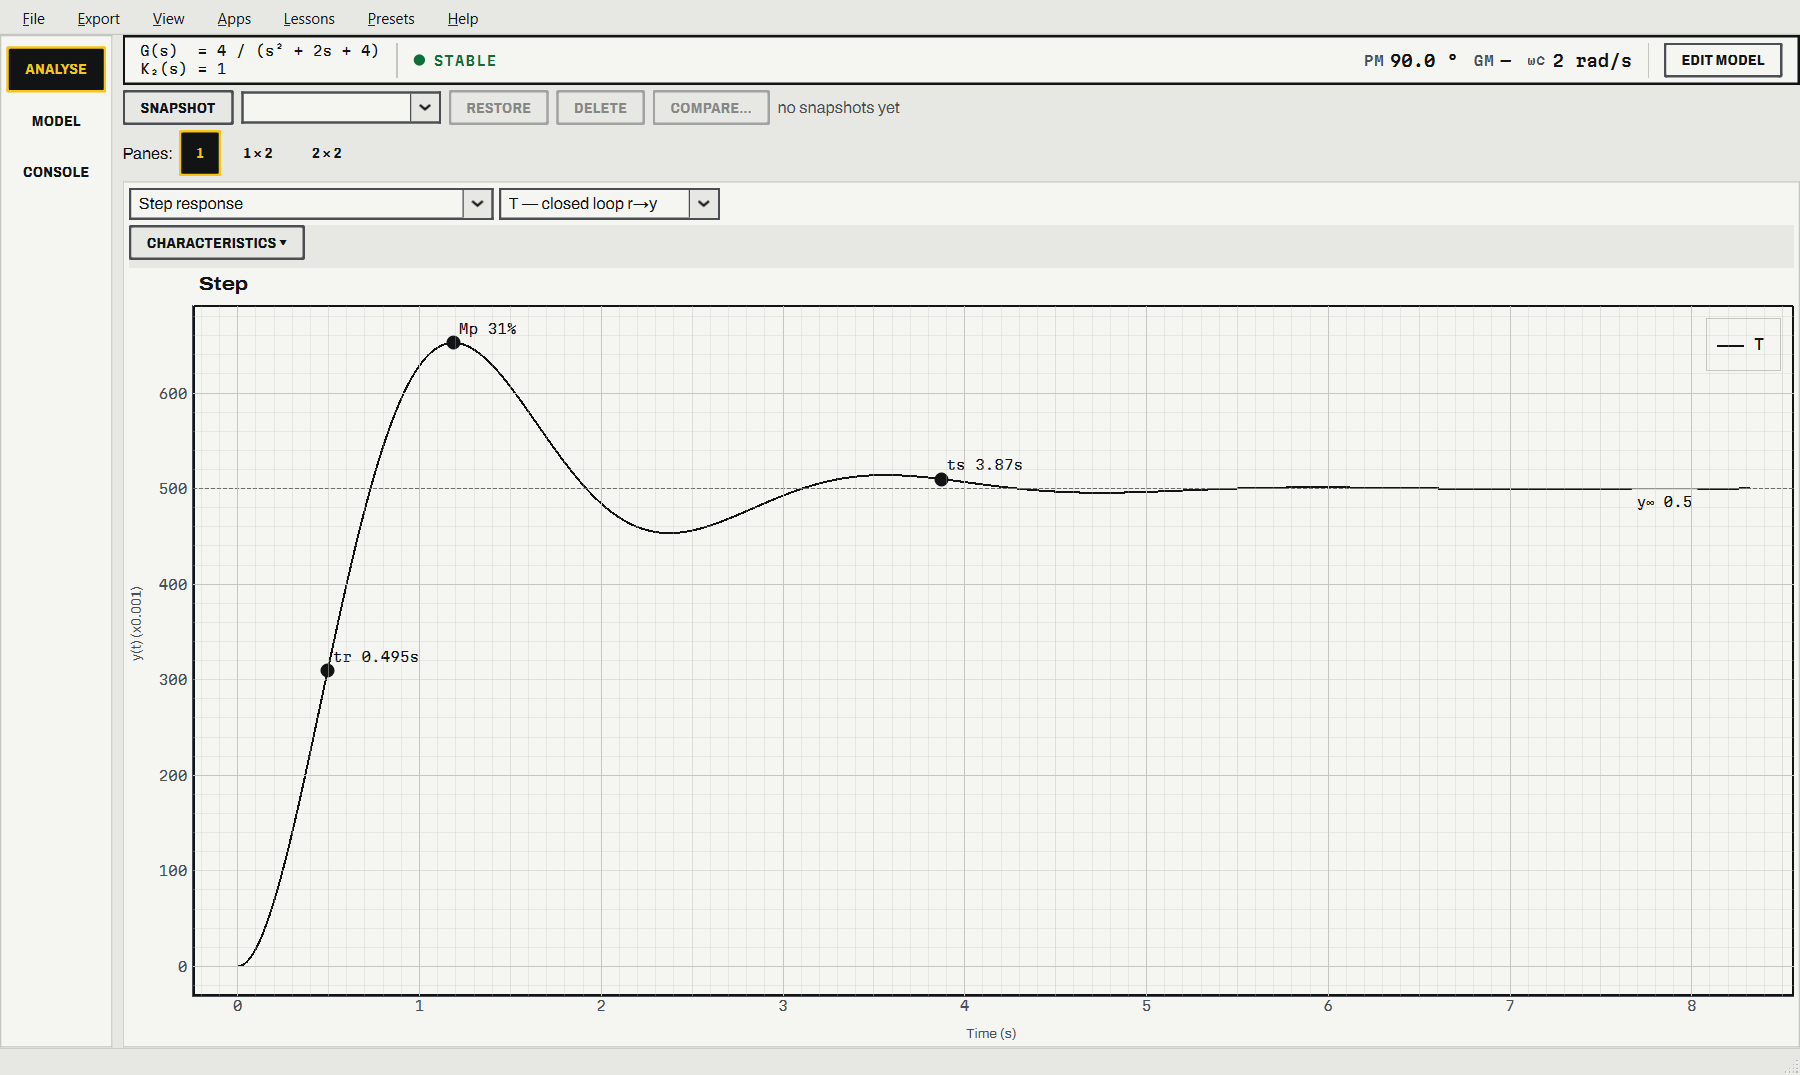
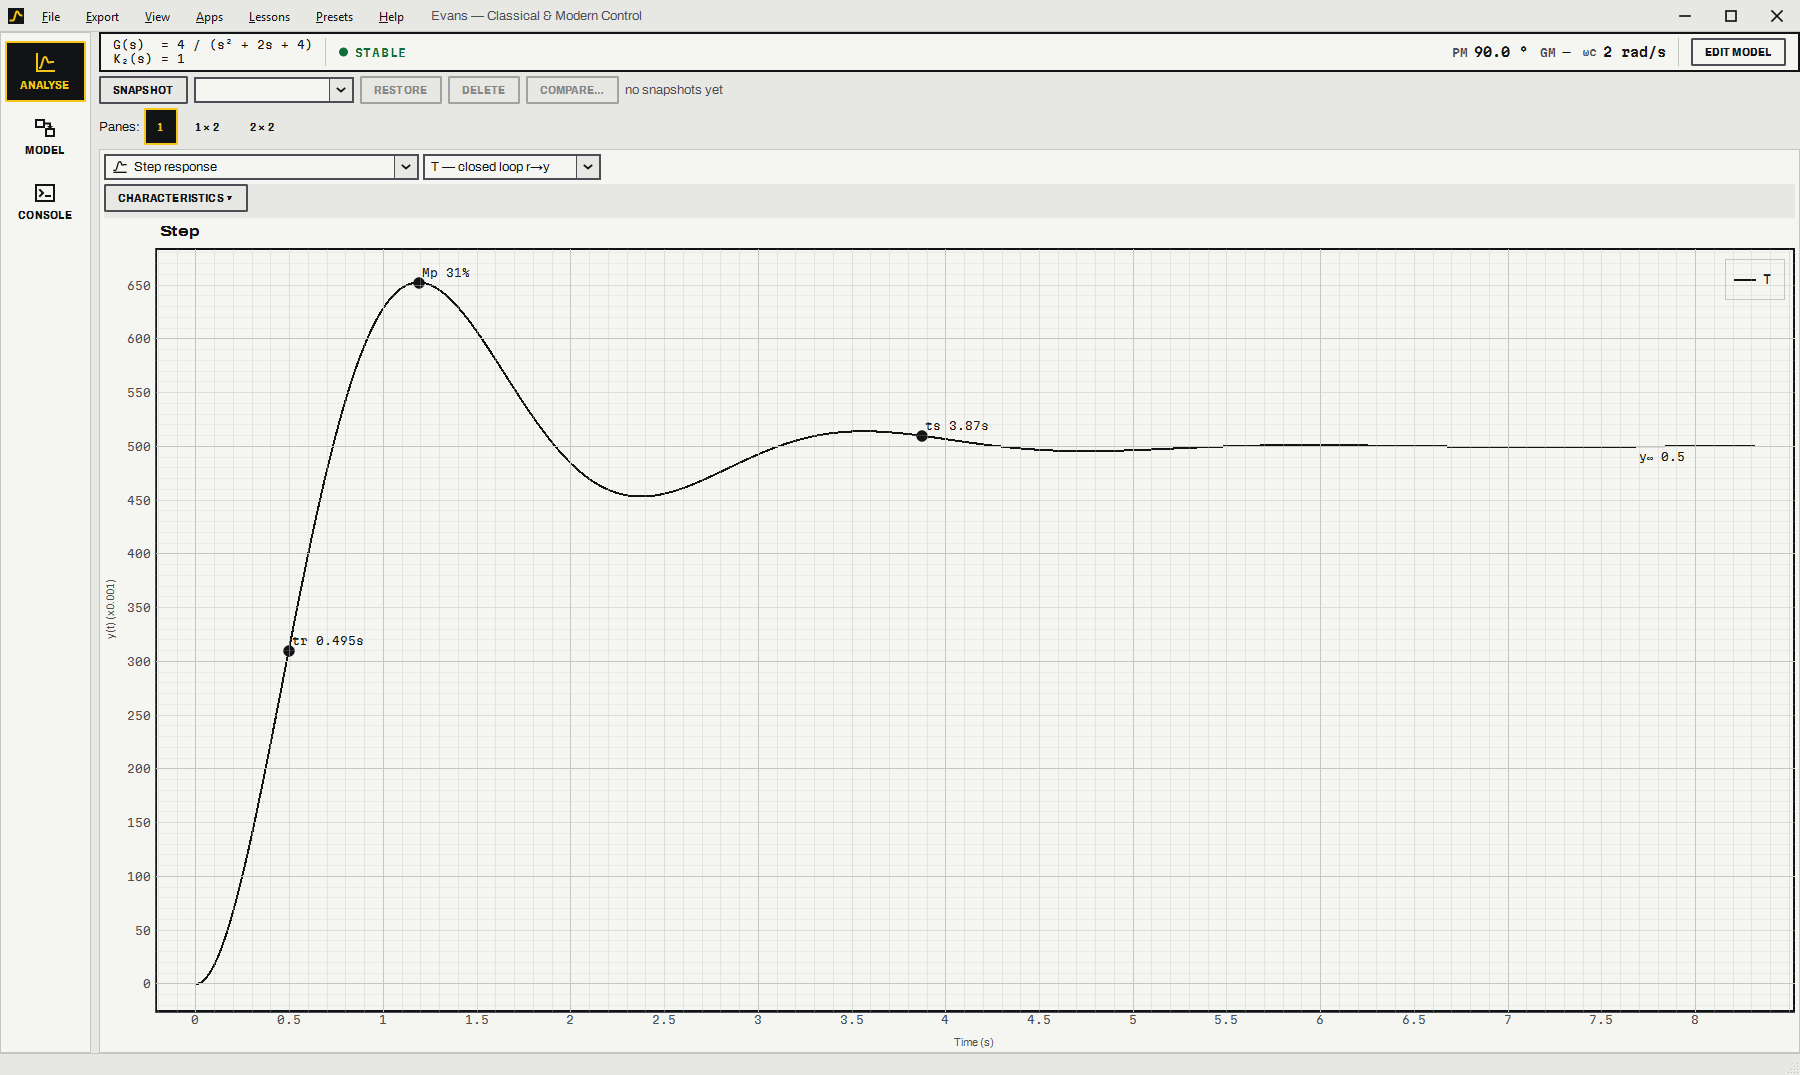
Title bar fixes, new screenshots, and the 0.9.1 release notes
- A maximised window leaves a 2-pixel gap on each edge of its monitor that
  has an auto-hide taskbar, so the taskbar can still be revealed.
- Windows 10 does not draw the frame's top line once the caption is gone,
  so the title bar draws it there (Windows 11 still draws its own).
- One window title: Qt appended the application display name to every
  native caption, which read "Evans — ... - Evans — ...".
- docs/theme-day.png and theme-night.png show the integrated title bar.
- The docs site's Install and home pages offer the installer first.
- Version 0.9.1; the README quotes the current test count.

diff --git a/site/pages/install.html b/site/pages/install.html
@@ -7,23 +7,28 @@
       </div>
     </section>
 
-    <section class="proj-section" id="windows">
+    <section class="proj-section" id="installer">
       <div class="card prose">
-        <h2>Windows: the release zip</h2>
+        <h2>Windows: the installer (recommended)</h2>
         <ol>
-          <li>Open the <a href="@@releases@@">latest release</a> and download <code>Evans-windows.zip</code> from its Assets list.</li>
-          <li>Unzip it anywhere, for example into <code>Documents\Evans</code>. Keep the folder together: the program is a folder, not a single file.</li>
-          <li>Run <code>Evans.exe</code> inside it. To uninstall, delete the folder.</li>
+          <li>Open the <a href="@@releases@@">latest release</a> and download <code>Evans-Setup-@@version@@.exe</code> from its Assets list.</li>
+          <li>Run it. It installs for your account only, into <code>%LOCALAPPDATA%\Programs\Evans</code>, so it never asks for administrator rights.</li>
+          <li>Start Evans from the Start menu. Tick the box during setup if you also want a desktop shortcut.</li>
         </ol>
-        <p>The folder also holds <code>Evans-check.exe</code>, the same program's headless self-test. Run it from a terminal: it checks every lesson's analytic claims and builds the whole window offscreen, and its exit code is the number of failures. It exists as a separate file because a windowed program on Windows has no console to print to.</p>
-        <p>It is a one-folder build on purpose. A one-file build unpacks the whole Qt runtime on every launch, which for PySide6, SciPy and SymPy takes several seconds before the window appears.</p>
+        <p>Double-clicking an <code>.fmdl</code> model opens it in Evans. To upgrade, run a newer installer over the old one; to uninstall, use <em>Apps &amp; features</em>. Uninstalling leaves your settings (theme, layout, recent files) in place.</p>
       </div>
     </section>
 
-    <section class="proj-section" id="installer">
+    <section class="proj-section" id="windows">
       <div class="card prose">
-        <h2>An installer is coming</h2>
-        <p>A Windows installer, with a Start menu entry and an uninstaller, is being built. When it ships it will appear on the same <a href="@@releases@@">latest release</a> page, next to the zip, so the download link above stays the right one.</p>
+        <h2>Windows: the portable zip</h2>
+        <ol>
+          <li>From the same <a href="@@releases@@">latest release</a>, download <code>Evans-windows.zip</code>.</li>
+          <li>Unzip it anywhere, a USB stick included. Keep the folder together: the program is a folder, not a single file.</li>
+          <li>Run <code>Evans.exe</code> inside it. Nothing is installed or registered with Windows; to remove it, delete the folder.</li>
+        </ol>
+        <p>Both downloads hold <code>Evans-check.exe</code>, the same program's headless self-test. Run it from a terminal: it checks every lesson's analytic claims and builds the whole window offscreen, and its exit code is the number of failures. It exists as a separate file because a windowed program on Windows has no console to print to.</p>
+        <p>It is a one-folder build on purpose. A one-file build unpacks the whole Qt runtime on every launch, which for PySide6, SciPy and SymPy takes several seconds before the window appears.</p>
       </div>
     </section>
 

diff --git a/site/pages/home.html b/site/pages/home.html
@@ -8,7 +8,7 @@
             <a class="hp-btn hp-btn--primary" href="@@releases@@"><span>Download for Windows</span><svg viewBox="0 0 24 24" aria-hidden="true" focusable="false"><g transform="rotate(90 12 12)" fill="none" stroke="currentColor" stroke-width="3.4" stroke-linecap="square" stroke-linejoin="miter"><path d="M3.5 12H18.5"></path><path d="M12 5.2L18.8 12L12 18.8"></path></g></svg></a>
             <a class="hp-btn hp-btn--ghost" href="@@repo@@"><span>Source on GitHub</span><svg viewBox="0 0 24 24" aria-hidden="true" focusable="false"><g transform="rotate(315 12 12)" fill="none" stroke="currentColor" stroke-width="3.4" stroke-linecap="square" stroke-linejoin="miter"><path d="M3.5 12H18.5"></path><path d="M12 5.2L18.8 12L12 18.8"></path></g></svg></a>
           </div>
-          <p class="cta-note">Free and MIT-licensed. The download is a zip: unzip it anywhere and run <code>Evans.exe</code>. <a href="install.html">Install notes</a></p>
+          <p class="cta-note">Free and MIT-licensed. Run the installer, no administrator rights needed, or take the portable zip. <a href="install.html">Install notes</a></p>
         </div>
         <div class="hp-plate" aria-label="At a glance">
           <div class="hp-plate__head"><span class="hp-plate__title">At a glance</span><span class="hp-plate__ref">v@@version@@</span></div>

diff --git a/src/evans/ui/winframe.py b/src/evans/ui/winframe.py
@@ -25,6 +25,12 @@ So the native frame is kept, and only its caption is taken away:
     snapping, double-click to maximise, right-click for the system menu),
     and everything else is ``HTCLIENT``, Qt's as usual.
 
+An auto-hide taskbar appears when the mouse reaches the screen edge it hides
+behind, but a maximised window with its caption gone covers that edge too.
+So a maximised window leaves a 2-pixel gap on each edge of its monitor that
+has an auto-hide bar (``ABM_GETAUTOHIDEBAREX``), as Windows Terminal and
+Chromium do.
+
 Because the maximise button answers ``HTMAXBUTTON``, Windows sends it
 non-client mouse messages rather than client ones; :class:`NativeFrame`
 turns those into hover, press and click on the Qt button.
@@ -74,6 +80,16 @@ SWP_NOZORDER = 0x0004
 SWP_NOACTIVATE = 0x0010
 SWP_FRAMECHANGED = 0x0020
 
+ABM_GETSTATE = 0x04
+ABM_GETAUTOHIDEBAREX = 0x0B
+ABS_AUTOHIDE = 0x01
+ABE_LEFT, ABE_TOP, ABE_RIGHT, ABE_BOTTOM = 0, 1, 2, 3
+MONITOR_DEFAULTTONEAREST = 2
+
+#: How far a maximised window keeps off an auto-hide taskbar's edge, in
+#: physical pixels: enough for the mouse to touch the edge and reveal it.
+AUTOHIDE_GAP = 2
+
 TME_LEAVE = 0x00000002
 TME_NONCLIENT = 0x00000010
 
@@ -88,6 +104,17 @@ HANDLED = frozenset((WM_NCCALCSIZE, WM_NCHITTEST, WM_NCMOUSEMOVE,
 
 class NCCALCSIZE_PARAMS(ctypes.Structure):  # noqa: N801 (Win32 name)
     _fields_ = [("rgrc", wintypes.RECT * 3), ("lppos", ctypes.c_void_p)]
+
+
+class APPBARDATA(ctypes.Structure):
+    _fields_ = [("cbSize", wintypes.DWORD), ("hWnd", wintypes.HWND),
+                ("uCallbackMessage", wintypes.UINT), ("uEdge", wintypes.UINT),
+                ("rc", wintypes.RECT), ("lParam", wintypes.LPARAM)]
+
+
+class MONITORINFO(ctypes.Structure):
+    _fields_ = [("cbSize", wintypes.DWORD), ("rcMonitor", wintypes.RECT),
+                ("rcWork", wintypes.RECT), ("dwFlags", wintypes.DWORD)]
 
 
 class TRACKMOUSEEVENT(ctypes.Structure):
@@ -126,6 +153,23 @@ def client_hit(region: str, y: int, x: int, width: int, band: int,
     if region == "caption":
         return HTCAPTION
     return HTCLIENT
+
+
+def autohide_inset(rect, edges, gap: int = AUTOHIDE_GAP) -> None:
+    """
+    Pull a maximised client rectangle in by ``gap`` on each auto-hide edge.
+
+    ``rect`` has ``left``/``top``/``right``/``bottom`` and is changed in place;
+    ``edges`` holds ``ABE_*`` values.
+    """
+    if ABE_LEFT in edges:
+        rect.left += gap
+    if ABE_TOP in edges:
+        rect.top += gap
+    if ABE_RIGHT in edges:
+        rect.right -= gap
+    if ABE_BOTTOM in edges:
+        rect.bottom -= gap
 
 
 # ── the Win32 functions, declared ───────────────────────────────
@@ -170,6 +214,21 @@ class _Win32:
         self.GetSystemMetrics.argtypes = [ctypes.c_int]
         self.GetSystemMetrics.restype = ctypes.c_int
 
+        self.MonitorFromWindow = user32.MonitorFromWindow
+        self.MonitorFromWindow.argtypes = [wintypes.HWND, wintypes.DWORD]
+        self.MonitorFromWindow.restype = wintypes.HMONITOR
+
+        self.GetMonitorInfoW = user32.GetMonitorInfoW
+        self.GetMonitorInfoW.argtypes = [wintypes.HMONITOR,
+                                         ctypes.POINTER(MONITORINFO)]
+        self.GetMonitorInfoW.restype = wintypes.BOOL
+
+        shell32 = ctypes.WinDLL("shell32")
+        self.SHAppBarMessage = shell32.SHAppBarMessage
+        self.SHAppBarMessage.argtypes = [wintypes.DWORD,
+                                         ctypes.POINTER(APPBARDATA)]
+        self.SHAppBarMessage.restype = ctypes.c_size_t
+
         # Per-monitor DPI versions: Windows 10 1607 and later.
         self.GetDpiForWindow = getattr(user32, "GetDpiForWindow", None)
         self.GetSystemMetricsForDpi = getattr(user32, "GetSystemMetricsForDpi",
@@ -188,6 +247,25 @@ class _Win32:
             if dpi:
                 return self.GetSystemMetricsForDpi(index, dpi)
         return self.GetSystemMetrics(index)
+
+    def autohide_edges(self, hwnd: int) -> set[int]:
+        """The edges of ``hwnd``'s monitor that have an auto-hide appbar."""
+        bar = APPBARDATA(cbSize=ctypes.sizeof(APPBARDATA))
+        if not self.SHAppBarMessage(ABM_GETSTATE, ctypes.byref(bar)) \
+                & ABS_AUTOHIDE:
+            return set()
+        monitor = self.MonitorFromWindow(hwnd, MONITOR_DEFAULTTONEAREST)
+        info = MONITORINFO(cbSize=ctypes.sizeof(MONITORINFO))
+        if not monitor or not self.GetMonitorInfoW(monitor,
+                                                   ctypes.byref(info)):
+            return set()
+        edges = set()
+        for edge in (ABE_LEFT, ABE_TOP, ABE_RIGHT, ABE_BOTTOM):
+            bar = APPBARDATA(cbSize=ctypes.sizeof(APPBARDATA), uEdge=edge,
+                             rc=info.rcMonitor)
+            if self.SHAppBarMessage(ABM_GETAUTOHIDEBAREX, ctypes.byref(bar)):
+                edges.add(edge)
+        return edges
 
     def frame_y(self, hwnd: int) -> int:
         """The resize border's height, padding included, in physical px."""
@@ -314,6 +392,7 @@ class NativeFrame:
         params.rgrc[0].top = top
         if api.IsZoomed(hwnd):
             params.rgrc[0].top += api.frame_y(hwnd)
+            autohide_inset(params.rgrc[0], api.autohide_edges(hwnd))
         return True, 0
 
     def _hit_test(self, api: _Win32, hwnd, wparam, lparam):

diff --git a/tests/golden/test_title_bar.py b/tests/golden/test_title_bar.py
@@ -341,3 +341,51 @@ def test_a_refused_frame_falls_back(win, monkeypatch):
         assert not win.title_bar.chrome_visible
     finally:
         win.set_integrated_title_bar(False, remember=False)
+
+
+# ── auto-hide taskbars, the Windows 10 border, the title ────────
+
+@pytest.mark.parametrize("edges, expected", [
+    (set(), (0, 0, 1920, 1080)),
+    ({winframe.ABE_BOTTOM}, (0, 0, 1920, 1078)),
+    ({winframe.ABE_TOP}, (0, 2, 1920, 1080)),
+    ({winframe.ABE_LEFT, winframe.ABE_RIGHT}, (2, 0, 1918, 1080)),
+])
+def test_a_maximised_window_leaves_auto_hide_edges_uncovered(edges, expected):
+    rect = wintypes.RECT(0, 0, 1920, 1080)
+    winframe.autohide_inset(rect, edges)
+    assert (rect.left, rect.top, rect.right, rect.bottom) == expected
+
+
+@pytest.mark.skipif(not winframe.supported(), reason="needs real Windows")
+def test_the_auto_hide_query_answers_on_real_windows(win):
+    api = winframe._Win32()
+    edges = api.autohide_edges(int(win.winId()))
+    assert edges <= {winframe.ABE_LEFT, winframe.ABE_TOP,
+                     winframe.ABE_RIGHT, winframe.ABE_BOTTOM}
+
+
+def test_the_top_border_is_drawn_only_on_windows_10(monkeypatch):
+    from evans.ui import titlebar
+
+    class Version:
+        def __init__(self, build):
+            self.build = build
+
+    monkeypatch.setattr(titlebar.sys, "platform", "win32")
+    monkeypatch.setattr(titlebar.sys, "getwindowsversion",
+                        lambda: Version(19045), raising=False)
+    assert titlebar.draws_own_top_border()           # Windows 10 22H2
+    monkeypatch.setattr(titlebar.sys, "getwindowsversion",
+                        lambda: Version(22631), raising=False)
+    assert not titlebar.draws_own_top_border()       # Windows 11
+    monkeypatch.setattr(titlebar.sys, "platform", "linux")
+    assert not titlebar.draws_own_top_border()
+
+
+def test_the_window_title_is_said_once(win):
+    """Qt appends an application display name to every native caption."""
+    assert QApplication.applicationDisplayName() in ("", "python", "pytest",
+                                                     QApplication.applicationName())
+    assert win.windowTitle() == "Evans — Classical & Modern Control"
+    assert win.windowTitle().count("Evans") == 1

diff --git a/src/evans/ui/titlebar.py b/src/evans/ui/titlebar.py
@@ -21,6 +21,8 @@ stop it is.
 
 from __future__ import annotations
 
+import sys
+
 from PySide6.QtCore import QEvent, QPoint, QRect, QSize, Qt, Signal
 from PySide6.QtGui import QColor, QPainter
 from PySide6.QtWidgets import (
@@ -39,6 +41,17 @@ from . import iconset, theme
 BAR_HEIGHT = 32
 BUTTON_SIZE = QSize(46, BAR_HEIGHT)
 GLYPH_PX = 20
+
+
+def draws_own_top_border() -> bool:
+    """
+    Whether the bar has to draw the window's 1-pixel top border itself.
+
+    With the caption taken away, Windows 11 still draws the frame's top line;
+    Windows 10 does not, so there the window's top edge would vanish into
+    whatever is behind it.
+    """
+    return sys.platform == "win32" and sys.getwindowsversion().build < 22000
 
 
 def _mix(a: str, b: str, amount: float) -> QColor:
@@ -206,6 +219,18 @@ class TitleBar(QWidget):
             self.setMaximumHeight(16777215)
         self.setVisible(on or not self.menu_bar.isNativeMenuBar())
 
+    def paintEvent(self, event) -> None:      # noqa: N802 (Qt API)
+        super().paintEvent(event)
+        if not (self._chrome and draws_own_top_border()
+                and not self._window.isMaximized()):
+            return
+        t = theme.tokens()
+        p = QPainter(self)
+        colour = (QColor(t.edge) if self._window.isActiveWindow()
+                  else _mix(t.ground, t.ink, .25))
+        p.fillRect(QRect(0, 0, self.width(), 1), colour)
+        p.end()
+
     def sync_window_state(self) -> None:
         """Maximise becomes restore, and back, with the window."""
         maximized = self._window.isMaximized()
@@ -226,6 +251,7 @@ class TitleBar(QWidget):
             kind = event.type()
             if kind == QEvent.WindowStateChange:
                 self.sync_window_state()
+                self.update()               # the top border comes and goes
             elif kind in (QEvent.ActivationChange, QEvent.WindowActivate,
                           QEvent.WindowDeactivate):
                 self.setProperty("active", self._window.isActiveWindow())

diff --git a/src/evans/ui/mainwindow.py b/src/evans/ui/mainwindow.py
@@ -86,7 +86,7 @@ from .workspace import Workspace, WorkspaceStack
 
 class MainWindow(QMainWindow):
 
-    APP_TITLE = "Evans — Classical Control Workbench"
+    APP_TITLE = "Evans — Classical & Modern Control"
 
     def __init__(self, arch: CourseArchitecture | None = None) -> None:
         super().__init__()
@@ -1146,7 +1146,7 @@ class MainWindow(QMainWindow):
     def _show_about(self) -> None:
         QMessageBox.about(
             self, "About Evans",
-            "Evans — Classical Control Workbench\n\n"
+            "Evans — Classical & Modern Control\n\n"
             "Built for the CLACO course (Master Automatique et Robotique).\n\n"
             "Stack: Python 3.12 · python-control · PySide6 · pyqtgraph · sympy\n\n"
             "Architecture: 2-DOF feedback + feedforward (ch.5)\n"

diff --git a/src/evans/app.py b/src/evans/app.py
@@ -108,7 +108,8 @@ def main() -> None:
     # Enable high-DPI
     app.setAttribute(Qt.AA_UseHighDpiPixmaps, True)
     app.setApplicationName("Evans")
-    app.setApplicationDisplayName("Evans — Classical & Modern Control")
+    # No setApplicationDisplayName: Qt appends it to every native caption,
+    # which made the window read "Evans — … - Evans — …".
 
     # Identity first: QSettings (the saved theme among them) is keyed on it.
     app.setOrganizationName("Evans")

diff --git a/src/evans/__init__.py b/src/evans/__init__.py
@@ -1,3 +1,3 @@
 """Evans — a classical and modern control workbench."""
 
-__version__ = "0.9.0"
+__version__ = "0.9.1"

diff --git a/README.md b/README.md
@@ -249,7 +249,7 @@ a crossover above the plant's phase budget is impossible for it.
 pytest
 ```
 
-1223 tests, plus `ruff check .`. Most are golden tests: analytic values worked out by hand
+1236 tests, plus `ruff check .`. Most are golden tests: analytic values worked out by hand
 or by an independent route, rather than snapshots of whatever the code printed first. The
 numeric signal solver and the symbolic one check each other, and `python-control` is a
 third opinion.
